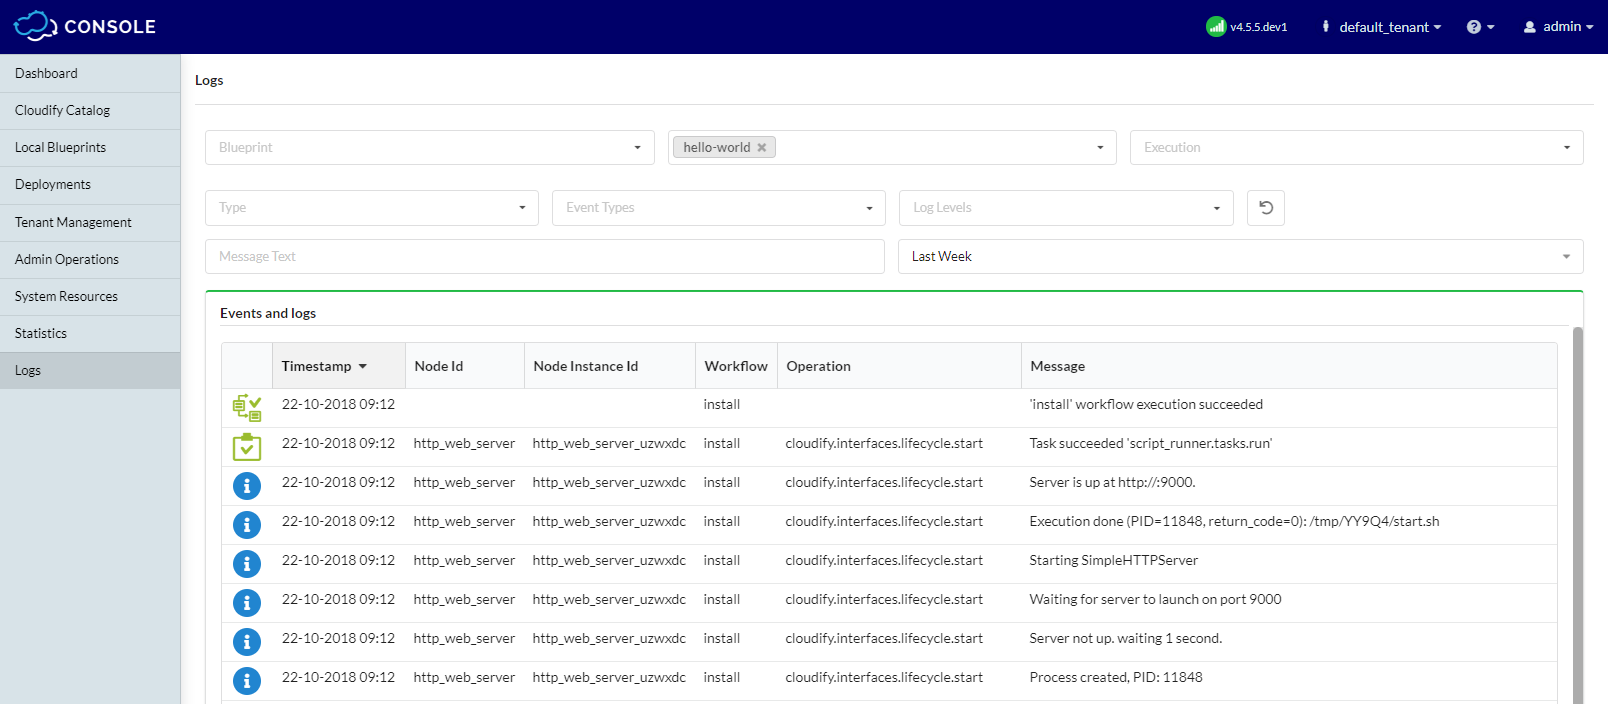
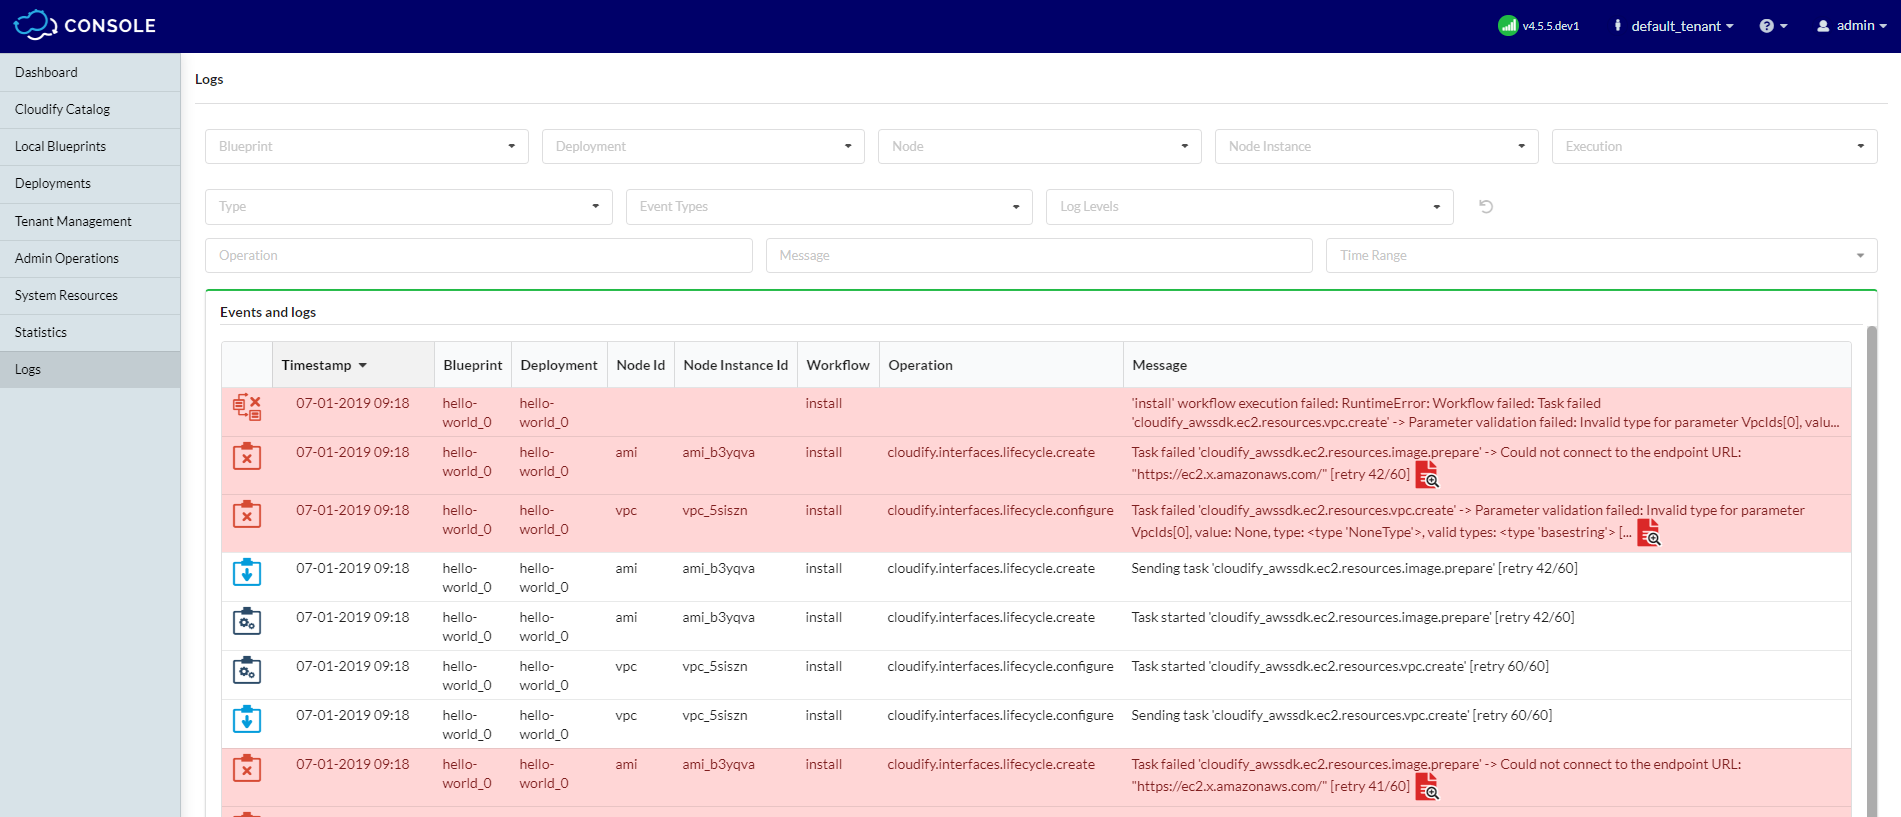
Updated Logs page

diff --git a/content/working_with/console/logs-page.md b/content/working_with/console/logs-page.md
@@ -15,7 +15,7 @@ Page contains Resource and Time Filter widgets for filtering events/logs listed 
 
 ## Resource Filter
 
-Resource Filter widget allows you to select specific execution for logs/events analysis. You can filter by blueprints, deployments to limit the list of executions.  
+Resource Filter widget allows you to select specific execution for logs/events analysis. You can filter by blueprints, deployments to limit the list of executions.  You can also filter by nodes and node instances to limit the list of events/logs.
 
 More about Resource Filter widget you can find [here]({{< relref "working_with/console/widgets/filter.md" >}}).
 
